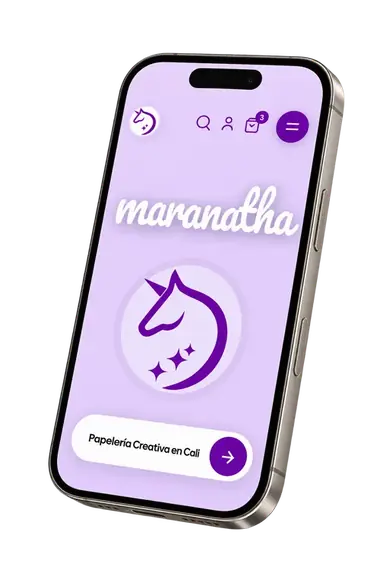
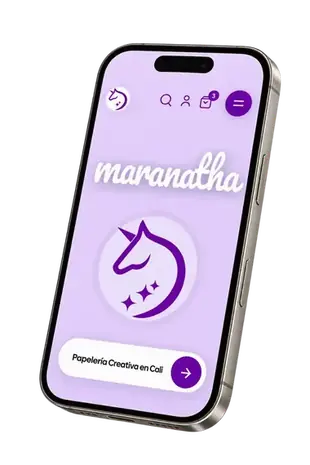
fix(perf): synchronize static hero html with React markup and defer gsap in intro

diff --git a/index.html b/index.html
@@ -371,21 +371,21 @@
         </header>
         <main>
           <section id="hero" class="relative min-h-[calc(100dvh-4.25rem)] lg:min-h-[calc(100dvh-6.5rem)] flex flex-col justify-between overflow-hidden bg-[#fafaf8]">
-            <div class="w-full max-w-[1760px] mx-auto px-6 sm:px-10 lg:px-14 xl:px-16 2xl:px-20 flex-1 flex flex-col lg:flex-row items-start lg:items-center justify-between gap-6 sm:gap-8 pt-5 sm:pt-10 lg:py-12 relative z-10">
-              <div class="w-full lg:w-[56%] xl:w-[54%] 2xl:w-[52%] flex flex-col items-start text-left justify-center min-w-0 pr-0 lg:pr-6 relative z-10">
-                <h1 aria-label="Diseño de páginas web en Cali para liderar en Google y vender más. — JP Studios" class="text-[2.25rem] sm:text-5xl md:text-6xl lg:text-[3.1vw] xl:text-[3.5vw] font-normal tracking-tight text-black leading-[1.06] select-none m-0 text-left max-w-3xl">
-                  <span class="block">
-                    <span class="inline-block">Diseño de <span class="text-black font-semibold font-inherit">páginas web</span></span>
+            <div class="w-full max-w-[1760px] mx-auto px-6 sm:px-10 lg:px-14 xl:px-16 2xl:px-20 flex-1 flex flex-col lg:flex-row items-start lg:items-center justify-between gap-6 sm:gap-8 pt-5 sm:pt-8 lg:pt-4 lg:pb-8 relative z-10">
+              <div class="w-full lg:w-auto lg:max-w-[560px] xl:max-w-[620px] 2xl:max-w-[680px] flex-shrink-0 flex flex-col items-start text-left justify-center min-w-0 pr-0 lg:pr-6 relative z-10">
+                <h1 aria-label="Diseño de páginas web en Cali para liderar en Google y vender más. — JP Studios" class="text-[2.5rem] sm:text-5xl md:text-6xl lg:text-[3.1vw] xl:text-[3.5vw] font-normal tracking-tight text-black leading-[1.08] m-0 text-left max-w-none">
+                  <span class="block will-change-transform lg:whitespace-nowrap">
+                    <span class="inline-block transition-transform duration-300 hover:scale-[1.01] origin-left">Diseño de <span class="text-black font-semibold font-inherit">páginas web</span></span>
                   </span>
-                  <span class="block">
-                    <span class="inline-block">en Cali para liderar en</span>
+                  <span class="block will-change-transform lg:whitespace-nowrap">
+                    <span class="inline-block transition-transform duration-300 hover:scale-[1.01] origin-left">en Cali para liderar en</span>
                   </span>
-                  <span class="block">
-                    <span class="inline-block"><span class="text-black font-semibold font-inherit">Google</span> y <span class="text-black font-semibold font-inherit">vender más</span>.</span>
+                  <span class="block will-change-transform lg:whitespace-nowrap">
+                    <span class="inline-block transition-transform duration-300 hover:scale-[1.01] origin-left"><span class="text-black font-semibold font-inherit">Google</span> y <span class="text-black font-semibold font-inherit">vender más</span>.</span>
                   </span>
                 </h1>
-                <p class="text-base sm:text-lg lg:text-[1.125rem] text-black/75 font-sans leading-relaxed text-left max-w-[340px] sm:max-w-md lg:max-w-xl pt-5 sm:pt-6 lg:pt-7">
-                  Desarrollo web a medida y landing pages de alta conversión en Cali. Sitios ultrarrápidos y optimizados para Google Maps diseñados para convertir visitas en chats directos de WhatsApp.
+                <p class="text-base sm:text-lg lg:text-[1.125rem] text-black/75 font-sans leading-relaxed text-left max-w-xl lg:max-w-2xl pt-5 sm:pt-6 lg:pt-7">
+                  JP Studios es un estudio de diseño web en Cali especializado en sitios web corporativos a medida y landing pages para vender. Desarrollamos páginas ultrarrápidas y optimizadas para empresas que necesitan liderar en Google Maps y convertir visitas en clientes reales por WhatsApp.
                 </p>
                 <div class="pt-5 sm:pt-6 lg:pt-8 flex flex-col sm:flex-row items-stretch sm:items-center gap-3 sm:gap-4 w-full">
                   <a href="https://wa.me/573177371301?text=Hola%20Juan%20Pablo%2C%20quiero%20cotizar%20un%20proyecto%20web%20para%20mi%20negocio." target="_blank" rel="noopener noreferrer" class="w-full sm:w-auto px-7 py-3.5 sm:py-4 rounded-xl sm:rounded-2xl bg-[#141517] hover:bg-black text-white text-sm font-medium flex items-center justify-between sm:justify-start gap-3 shadow-sm transition-all duration-300">
@@ -404,7 +404,7 @@
                 <div class="relative z-10 h-[70%] sm:h-[78%] -mr-8 sm:-mr-12 flex items-end select-none">
                   <picture class="h-full flex items-end">
                     <source type="image/webp" srcset="/celular-hero-page-mobile.webp" />
-                    <img src="/celular-hero-page.png" alt="Mockup de celular mostrando diseño web responsivo en Cali — JP Studios" class="h-full w-auto object-contain object-bottom select-none" width="380" height="570" loading="lazy" decoding="async" />
+                    <img src="/celular-hero-page.png" alt="Mockup de celular mostrando diseño web responsivo en Cali — JP Studios" class="h-full w-auto object-contain object-bottom select-none" width="310" height="465" loading="lazy" decoding="async" />
                   </picture>
                 </div>
                 <div class="relative z-0 h-[86%] sm:h-[90%] flex items-end justify-end select-none">

diff --git a/src/components/sections/Intro.tsx b/src/components/sections/Intro.tsx
@@ -2,11 +2,6 @@ import React, { useEffect, useRef } from 'react';
 import { siteConfig } from '../../config/site';
 import { Magnetic } from '../ui/Magnetic';
 import { useLanguage } from '../../context/LanguageContext';
-import gsap from 'gsap';
-import { ScrollTrigger } from 'gsap/ScrollTrigger';
-
-gsap.registerPlugin(ScrollTrigger);
-
 export const Intro: React.FC = () => {
   const { t, language } = useLanguage();
   const sectionRef = useRef<HTMLElement | null>(null);
@@ -24,45 +19,59 @@ export const Intro: React.FC = () => {
 
     if (isMobile) return;
 
-    const ctx = gsap.context(() => {
-      const tl = gsap.timeline({
-        scrollTrigger: {
-          trigger: sectionRef.current,
-          start: 'top 80%',
-          once: true,
-        },
-      });
+    let ctx: any;
+    let isCancelled = false;
 
-      if (photoRef.current) {
-        tl.fromTo(
-          photoRef.current,
-          { y: 40, opacity: 0 },
-          { y: 0, opacity: 1, duration: 1, ease: 'power3.out' },
-          0
-        );
-      }
+    Promise.all([
+      import('gsap'),
+      import('gsap/ScrollTrigger')
+    ]).then(([{ default: gsap }, { ScrollTrigger }]) => {
+      if (isCancelled || !sectionRef.current) return;
+      gsap.registerPlugin(ScrollTrigger);
 
-      if (statementRef.current) {
-        tl.fromTo(
-          statementRef.current,
-          { y: 35, opacity: 0 },
-          { y: 0, opacity: 1, duration: 0.9, ease: 'power3.out' },
-          0.1
-        );
-      }
+      ctx = gsap.context(() => {
+        const tl = gsap.timeline({
+          scrollTrigger: {
+            trigger: sectionRef.current,
+            start: 'top 80%',
+            once: true,
+          },
+        });
 
-      if (actionsRef.current) {
-        const buttons = actionsRef.current.children;
-        tl.fromTo(
-          buttons,
-          { y: 30, opacity: 0 },
-          { y: 0, opacity: 1, duration: 0.85, stagger: 0.12, ease: 'power3.out' },
-          0.25
-        );
-      }
-    }, sectionRef);
+        if (photoRef.current) {
+          tl.fromTo(
+            photoRef.current,
+            { y: 40, opacity: 0 },
+            { y: 0, opacity: 1, duration: 1, ease: 'power3.out' },
+            0
+          );
+        }
 
-    return () => ctx.revert();
+        if (statementRef.current) {
+          tl.fromTo(
+            statementRef.current,
+            { y: 35, opacity: 0 },
+            { y: 0, opacity: 1, duration: 0.9, ease: 'power3.out' },
+            0.1
+          );
+        }
+
+        if (actionsRef.current) {
+          const buttons = actionsRef.current.children;
+          tl.fromTo(
+            buttons,
+            { y: 30, opacity: 0 },
+            { y: 0, opacity: 1, duration: 0.85, stagger: 0.12, ease: 'power3.out' },
+            0.25
+          );
+        }
+      }, sectionRef);
+    });
+
+    return () => {
+      isCancelled = true;
+      if (ctx) ctx.revert();
+    };
   }, []);
 
   return (

diff --git a/src/components/sections/Hero.tsx b/src/components/sections/Hero.tsx
@@ -212,8 +212,8 @@ export const Hero: React.FC = () => {
                 src="/celular-hero-page.png"
                 alt="Mockup de celular mostrando diseño web responsivo en Cali — JP Studios"
                 className="h-full w-auto object-contain object-bottom select-none"
-                width={380}
-                height={570}
+                width={310}
+                height={465}
                 loading="lazy"
                 decoding="async"
               />
